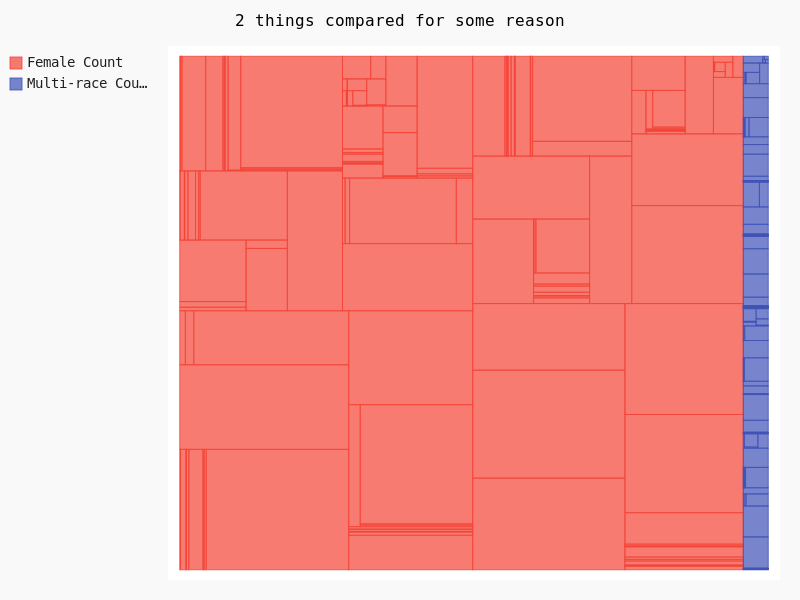
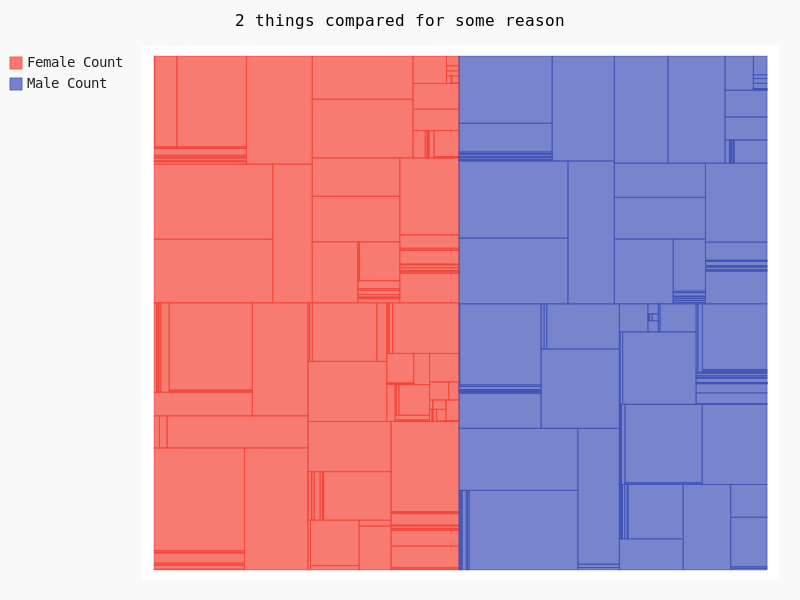
ninja stuff

diff --git a/main.py b/main.py
@@ -10,20 +10,22 @@ print("\n This program loads two sets of data and combines them into one file, c
 
 
 print("Below is the data selected.\nTry selecting different data.\n")
-outputp1 = loadDataPerson01()
+outputp1, outputp11 = loadDataPerson01()
 # print (outputp1,"data selected by person 1")
 
-outputp2 = loadDataPerson02()
+outputp2, outputp22 = loadDataPerson02()
 # print (outputp2, "data selected by person 2")
 
 
 #joins the data together
-finalOutput = pd.concat([outputp1, outputp2], axis=1)
+finalOutput = pd.concat([outputp1,outputp11, outputp2,outputp22], axis=1)
+
+
 
 print(finalOutput)
 
 print ("\n Now lets sort the data.")
-f2 = finalOutput.sort_values(by=['Multi-race Count', 'Female Count'])
+f2 = finalOutput.sort_values(by=['Male Count', 'Female Count'])
 
 
 
@@ -41,22 +43,23 @@ f2.to_csv('outputData/outputfile_2sets.csv',index=False)
 #converts data into lists, pygal likes lists.
 
 outputp1 = outputp1.values.tolist()
+outputp11 = outputp11.values.tolist()
 outputp2 = outputp2.values.tolist()
-f2 = f2.values.tolist()
+outputp22 = outputp22.values.tolist()
 
 
 print("\nNext it takes the selected data and makes a graph. Check the image file for results.")
 treemap = pygal.Treemap()
 treemap.title = '2 things compared for some reason'
 treemap.add('Female Count', outputp1)
-treemap.add('Multi-race Count', outputp2)
+treemap.add('Male Count', outputp2)
 
 treemap.render_to_png('images/myGraph.png')
 
 
 scatter = pygal.XY(stroke=False)
-scatter.title = 'Correlation'
-scatter.add('Female Count', f2)
-scatter.add('Multi-race Count', f2)
+scatter.title = 'Correlation of Race to Gender'
+scatter.add('Female Count', outputp1,outputp11)
+scatter.add('Male Count', outputp2, outputp22)
 
 scatter.render_to_png('images/myGraph2.png')

diff --git a/person01.py b/person01.py
@@ -9,8 +9,8 @@ def loadDataPerson01():
 	
 	# this code runs the def selectDataPerson01. it sends data to it.
 
-	outputp1 = selectDataPerson01(data)
-	return outputp1
+	outputp1, outputp11 = selectDataPerson01(data)
+	return outputp1, outputp11
 
 # this code selects a column from the loaded data.AssertionError
 

diff --git a/person02.py b/person02.py
@@ -9,8 +9,8 @@ def loadDataPerson02():
 	
 	# this code runs the def selectDataPerson01. it sends data to it.
 
-	outputp2 = selectDataPerson02(data)
-	return outputp2
+	outputp2, outputp22 = selectDataPerson02(data)
+	return outputp2, outputp22
 
 # this code selects a column from the loaded data.AssertionError
 
